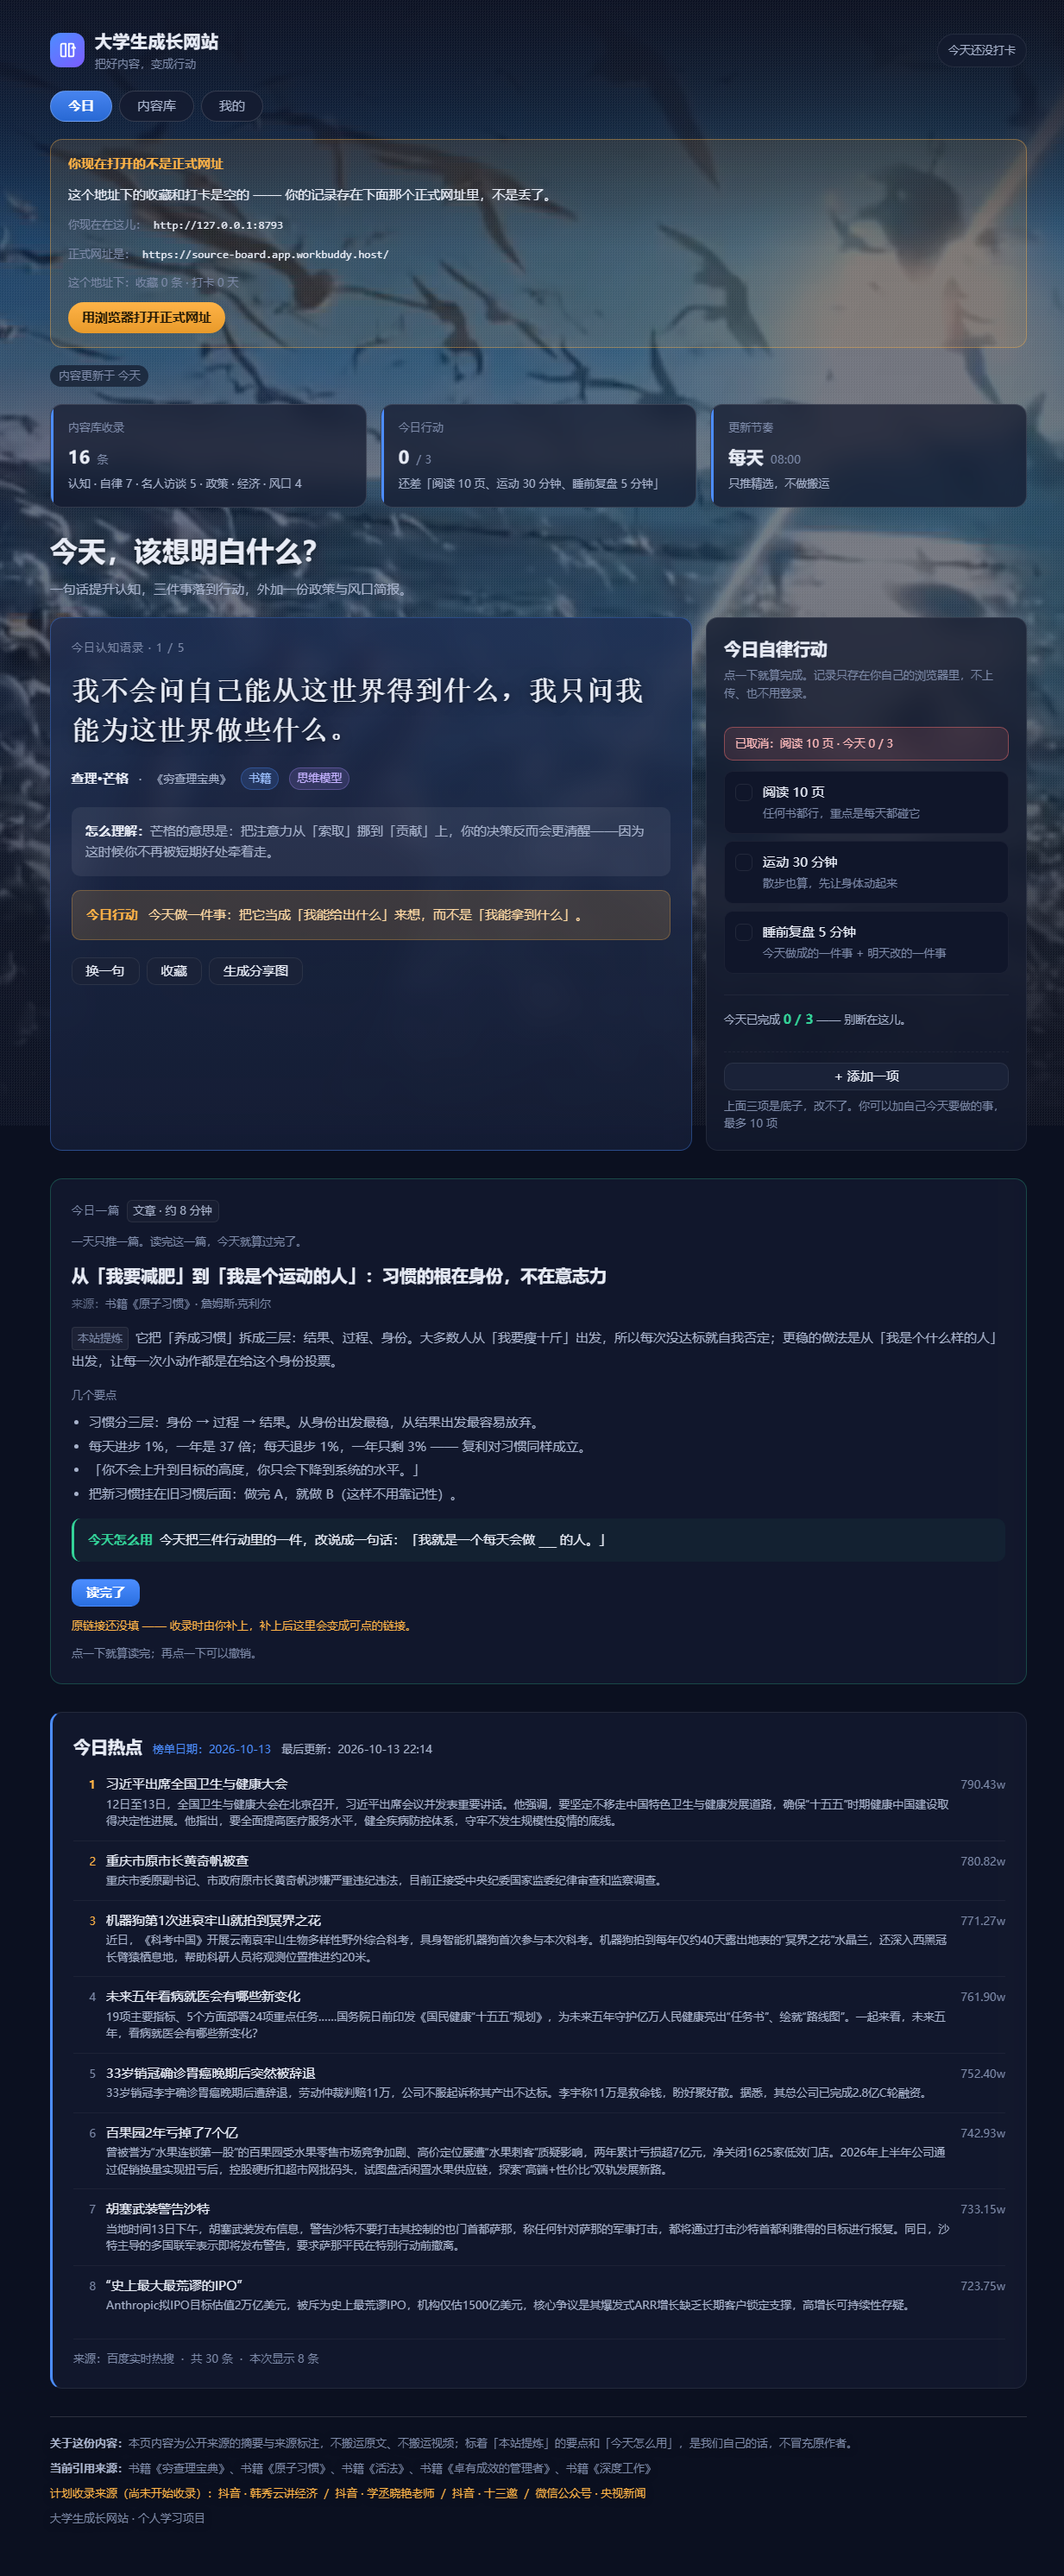
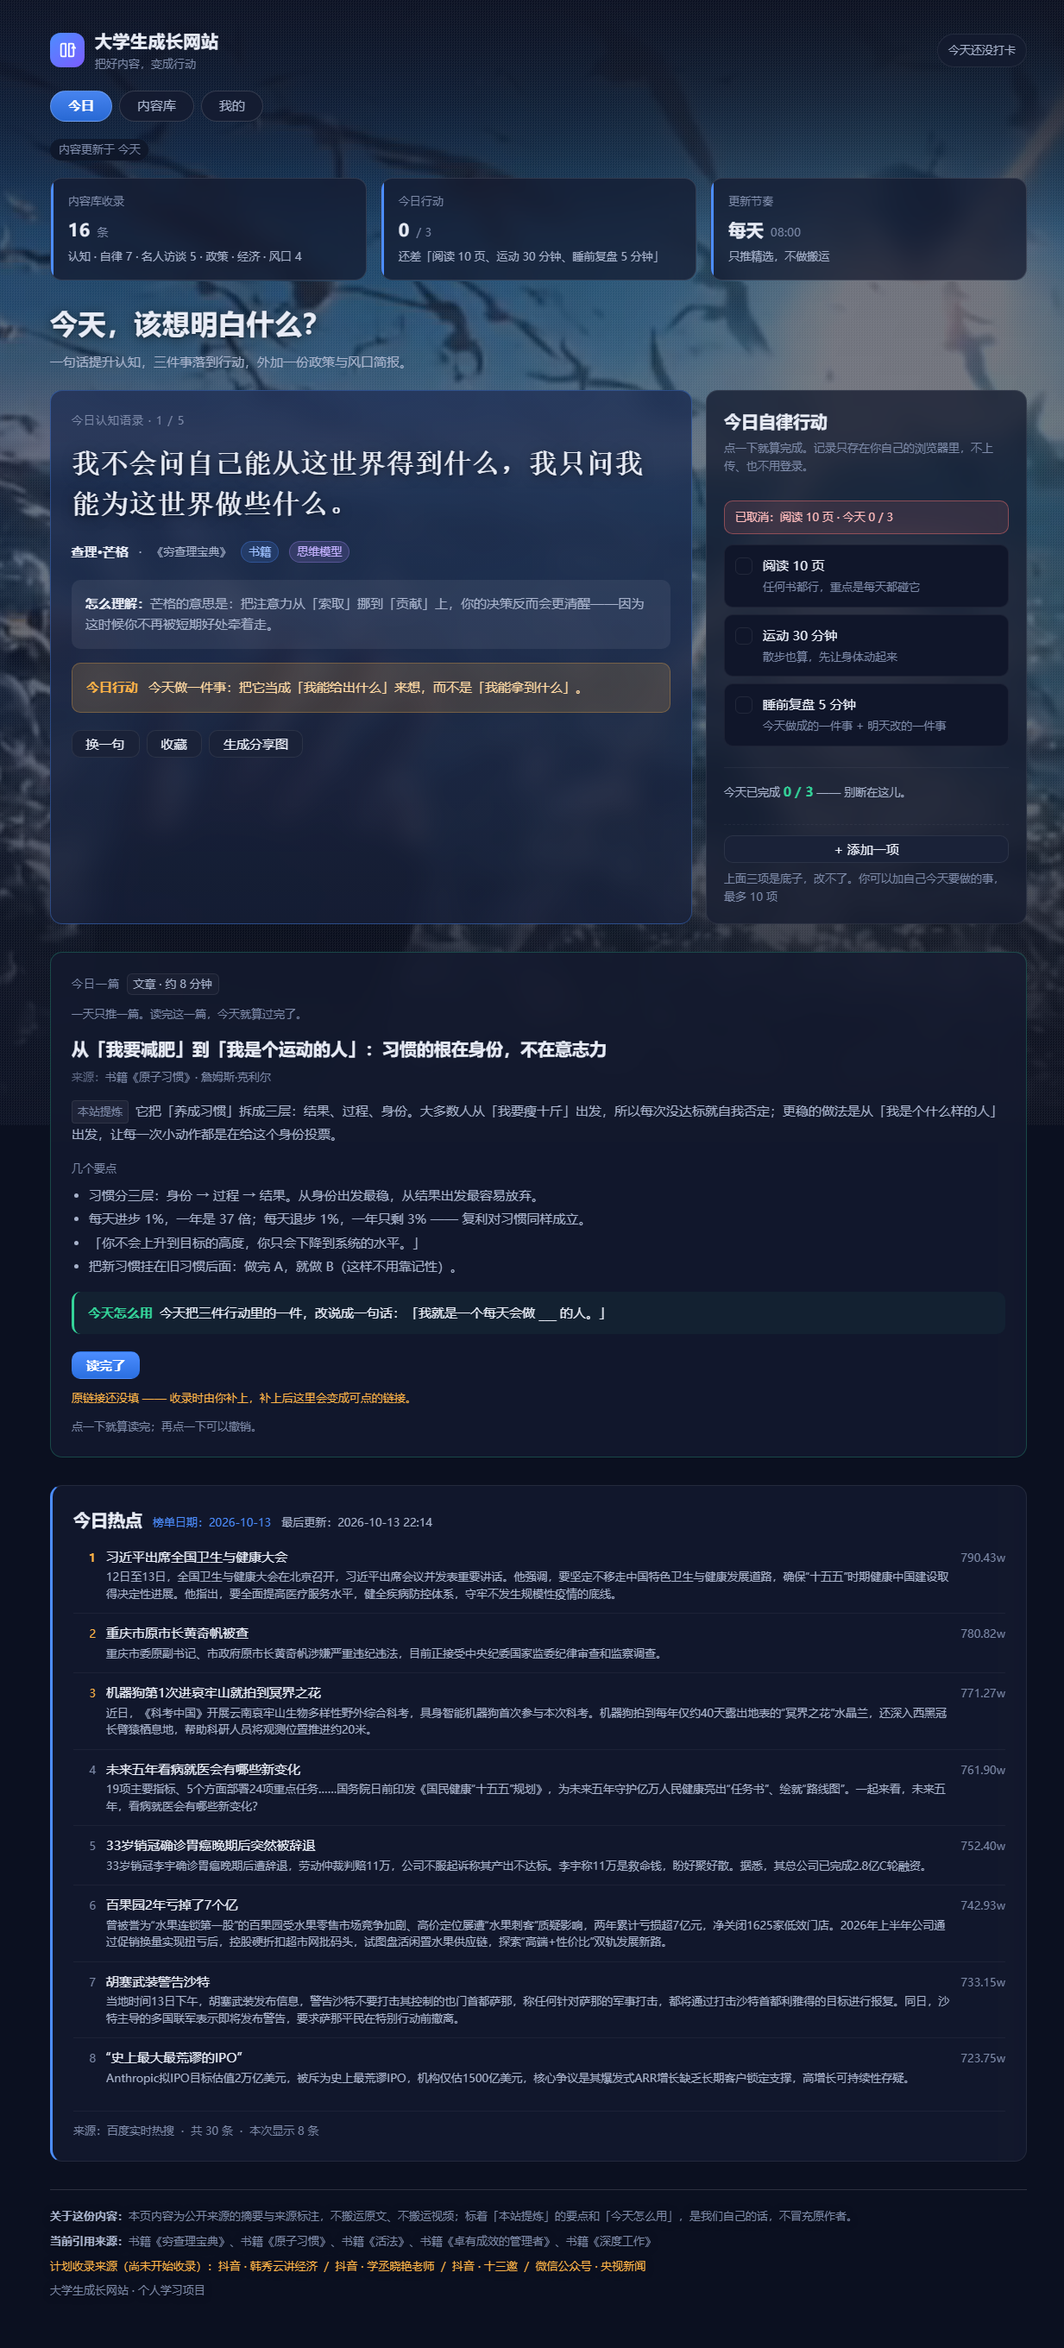
Day 27 补｜第四轮的完整记录：摘标注 / 热点复上 / 资源额度截图的真正位置 / 推送转交
改了什么：docs/CHANGELOG.md 加第九节（9.1 他的四句话 → 9.8 收尾，含「三次都发错、根子是我给的路径错了」的完整查证过程、为什么是「摘掉」而不是改字、★ 摘完从截图里看出的悬空分隔符、热点敢开的三个条件、AGENTS v1.5 推送规矩、六项验证与反向验证），并把第七节⑤「资源额度」改写成「三次都不对」的对照表；README.md 的 Day 27 条目补上第四轮这一段。

加了什么：无（本轮只动文档）。

diff --git a/docs/CHANGELOG.md b/docs/CHANGELOG.md
@@ -453,17 +453,42 @@ TypeError: Cannot read properties of undefined (reading 'replace')
   「没有符合条件的内容 / 换个词试试…」—— 跟「这一列还没收录」是两句不同的话；
 - `day27-6-首页热点已摘掉.png` —— 首页照常（语录 / 统计 / 行动卡），**「今日热点」整块不在了**。
 
-**⑤ 资源额度** —— `day27-2-资源额度.png` ⬜ **仍未拿到**。
-他先后发过两次都不对：第一次是「数据管理 → 应用」的**应用清单**（上面没有额度/到期/用量）；
-第二次发的更不是截图，而是**从那个页面导出的 `contents.csv`**（内容表的数据）。
-→ 正确做法：**停在同一页不要点导出**，把页面**上半部分的额度 / 到期日期 / 已用容量**
-一起框进一张截图。（正确点法见 `docs/day27-third-party-trial.md` 第 6.2 节。）
+**⑤ 资源额度** —— `day27-2-资源额度.png` ⬜ **仍未拿到**（原因已在当天深夜查清，见第九节）。
+
+他先后发过**三次都不对**：
+
+| 第几次 | 他发来的 | 为什么不算 |
+| --- | --- | --- |
+| 1 | 「数据管理 → 应用」的**应用清单** | 上面没有额度 / 到期 / 用量 |
+| 2 | 从那一页**导出的 `contents.csv`** | 更不是截图，是内容表的数据 |
+| 3 | 云服务「数据库 → 数据」的**表内容页** | 还是只有数据行，没有额度面板 |
+
+**★ 深夜查清：三次都不是他的问题 —— 是我给的路径本身错了。**
+本节原来写的「设置 → 数据管理 → 云服务页」，是**猜的**。
+当晚改用「直接挖客户端安装包里的界面文案」核对，才发现：
+
+- **云服务页根本没有额度面板** —— 它左栏只有四个模块
+  （数据库 / 文件存储 / 身份认证 / 数据统计），「额度」这个词只在
+  「额度即将耗尽 / 已暂停 / 已删除」这些**异常状态**下才冒出来；
+- **「额度 / 到期日期 / 用量」真正在的地方是账户菜单的「积分余额」页**
+  （`account.menu.credits`，里面有 `account.credits.total` / `.remaining`、
+  `account.credits.expiryDate`「到期日期」、`account.credits.validUntil`「有效期至」）。
+  → 他在云服务页里怎么找都找不到，**不是找的人的问题**。
+
+正确点法已写进 `docs/day27-third-party-trial.md` 第 6.2 节（那节已按查证结果重写）。
 
 **⑥ 第三轮（两处空头数字改成现算）的线上验证（新建，已亲眼看过）**
 
 - `day27-7-统计卡改为真实数据.png` —— 线上首页：顶栏 **「内容更新于 今天」**、
   第一张卡 **「内容库收录 16 条 · 认知 · 自律 7 · 名人访谈 5 · 政策 · 经济 · 风口 4」**。
   这三个数字与数据库实测（`cognition 7 / interview 5 / policy 4`）**逐项对得上**。
+
+**⑦ 第四轮（摘「示例内容」＋ 热点复上）的线上验证（新建，已亲眼看过）**
+
+- `day27-8-示例内容标注已摘掉.png` —— 线上首页：顶栏只剩 **「内容更新于 今天」**
+  （没有悬空的分隔符）、「今日一篇」卡头只剩 **「今日一篇 · 文章 · 约 8 分钟」**
+  （没有那个虚线小药丸）、**「今日热点」回来了**且标着
+  「榜单日期 2026-10-13 / 最后更新 2026-10-13 22:14」。
 
 ### 八、第三轮：修掉两处「编出来的数字」（2026-10-13 深夜）
 
@@ -524,6 +549,136 @@ TypeError: Cannot read properties of undefined (reading 'replace')
 - **发布上线**：sandboxId `7d028aab3c8c4397a6f384868b945c88`（与 Day 23 / 26 / 27 一致 → 覆盖同一个应用，链接不变）。
 - **推送成功**：`6a74f6d..472bbb5  main -> main`；远程真实 SHA `472bbb5d9ad4ae4e28ffda47bafe724a3e36284d`
   与本机 `HEAD` **完全一致**（按第 7 条第 5 点，只认远程 SHA）。
+
+### 九、第四轮：摘掉一个「已经变成假话」的标注 ＋ 找到那张截图的正确位置（2026-10-13 23:14）
+
+**9.1　Jimmy 这一轮给了我四句话**
+
+1. 「@图片 这个是资源额度截图吧」；
+2. 「推送这条规矩改成**你直接推，推不动我再上**」；
+3. 「首页还挂着「示例内容（版面确认用，非真实收录）」，**这个也改**」；
+4. 「「今日热点」**每天八点自动跑一次**」。
+
+**9.2　那张「资源额度截图」：第三次不对 —— 但这次我把根子挖出来了**
+
+他发来的第三张是**云服务 →「数据库 → 数据」的逐行看表页**（`contents` 表的 id / source_id /
+kind / title）。跟额度、到期、用量**一点关系都没有**。
+
+前两次分别是「应用清单」和「导出的 `contents.csv`」。三次都空手，这已经不该继续怪他 ——
+**回头查自己给的路径**，发现第 6.2 节那条「设置 → 数据管理 → 云服务页」**是当初猜的，从来没验过**。
+
+于是换了个办法：**不猜了，直接挖客户端安装包**。
+（这不是新招 —— 项目里那份 `workbuddy-ui-location` 技能就是干这个的，这次第一次真正派上用场。）
+
+| 挖到的东西 | 位置 |
+| --- | --- |
+| 云服务的界面文案 | `app.asar.unpacked/resources/extensions/workbuddy-baas-v2/ui/assets/__federation_expose_Main-*.js` |
+| 账户菜单 / 积分文案 | `app.asar.unpacked/renderer/assets/zh-cn-*.js`（中文是 `\uXXXX` 转义，要解一层） |
+
+**结论（都是原文，不是推断）**：
+
+- 云服务页左栏只有四个模块：`module.database` 数据库 / `module.storage` 文件存储 /
+  `module.auth` 身份认证 / `module.analytics` 数据统计 —— **没有额度面板**。
+  「额度」字样只出现在异常状态里（`state.expiring`「额度即将耗尽」、
+  `state.exhausted`「云服务已暂停」、`state.destroyed`「资源已删除」）。
+- 而**额度 / 到期日期 / 用量三样，都在账户菜单的「积分余额」页**：
+  `account.menu.credits`＝积分余额、`account.credits.total` / `.remaining`＝总量 / 剩余、
+  `account.credits.expiryDate`＝**到期日期**、`account.credits.validUntil`＝**有效期至**、
+  `account.menu.usage`＝用量。
+
+→ **他在云服务页里怎么找都找不到，不是他的问题，是路径错了。**
+已把 `docs/day27-third-party-trial.md` 第 6.2 节整段重写（并注明「原版是猜的」）。
+
+**9.3　首页那个「示例内容」标注：为什么是「摘掉」而不是「改一个字」**
+
+`data.js` 的 `meta.isSample` 由 `true` 改成 `false`。
+判断依据：内容库里已经是 **16 条真实条目 ＋ 8 篇今日一篇**，出处都能核对
+（书 / 公开演讲 / 公开政策文件），其中 3 条还是按合规做法收的（只做摘要 + 链接 + 来源标注）。
+→ 那句「非真实收录」**已经变成假话**。按本项目一贯的规矩（Day 10 / Day 27 第三轮都栽在这上面）：
+**假标注比没有标注更糟**，所以是摘掉，不是换个皮继续挂。
+
+顺带一起处理的：
+
+- **「今日一篇」卡上那格同名的虚线小药丸也去掉**（它是同一个说法，
+  只摘顶栏、留着卡片上那格，就是「同一件事两处说法不一致」）；
+  卡上本来就有「来源：…」和摘要前的「本站提炼」，信息没少。
+- `style.css` 里那条 `.dr-sample` 成了死样式，**删掉**（留着会让人以为页面还有个示例标记）；
+- 底部 `footer.note` 从「本页当前为示例内容…」改成
+  「本页内容为公开来源的摘要与来源标注…标着「本站提炼」的要点和「今天怎么用」，是我们自己的话」。
+
+**9.4　★ 摘完之后，截图里看出一个新毛病（这是今天最该记的一条）**
+
+摘掉标注后再跑一遍浏览器验证，页面文字层面全对（`body.innerText` 里已经没有「示例内容」）。
+**但把截图打开一看：顶栏剩了个孤零零的「·」** ——
+
+```
+内容更新于 今天 ·
+```
+
+原因：`renderMeta()` 里那个分隔符是**无条件**挂上去的，后面原本跟着「示例内容」那一格。
+格子一摘，分隔符就成了没主儿的尾巴。
+
+改法：先收集这次要显示哪几条，**有一条才补分隔符**。
+顺手把这个分支改成数组驱动 —— 以后再关掉任何一条，都不会再留尾巴。
+
+> **这条为什么值得记**：文字层面的断言（`indexOf('示例内容') === -1`）**全都是通过的**。
+> 问题只在**版面上**。AGENTS 第 3 条那句「截图必须亲眼看」，防的正是这个。
+
+**9.5　「今日热点」重新上首页**
+
+`config.js` 的 `hot.visible` 由 `false` 改回 `true`。
+
+凭什么敢开（这是当时关掉它时留下的条件）：
+
+| 当时的顾虑 | 现在的状态 |
+| --- | --- |
+| 最新快照停在一周前（10-06），挂着旧日期比没有更伤 | **已补到当天**：10-13 的 30 条，22:14 写进云端 |
+| 靠「每天新鲜」才成立，但没人天天手动抓 | **每天 08:00 有定时任务**（`tools/hot-topics/update-daily.mjs`），跑完自己写库并回读验证 |
+| 万一哪天真没跑成，看不出来 | 页面上本来就有**两个日期**：「榜单日期」（数据属于哪天）＋「最后更新」（什么时候抓进来的）—— 一起停住，一眼能看出来 |
+
+实测：线上「今日热点」显示 **榜单日期 2026-10-13 / 最后更新 2026-10-13 22:14**，8 条。
+
+**9.6　`AGENTS.md` 第 7 条：推送规矩改了（他明确批准）**
+
+旧版第 3 点写的是「**推送交给我在本机终端跑（你在沙箱里推不了，不用试）**」。
+但**实测一次就推成功**了 —— 那句「不用试」与事实相反。
+
+改成：**推送由助手直接推**；只有「直连和中转口**都不通**」或「要动他本机才有的东西」
+这两种情况才转给他。第 6 点末尾那句「推送仍由他在本机终端跑」同步改掉
+（否则同一份文件里两处自相矛盾）；版本日志加 v1.5 一行，写明是他哪句原话批准的。
+
+**★ 这一条当天就用上了**：23:1x 推送时直连报 `Empty reply from server`、
+本机中转口报 `CONNECT tunnel failed, response 502`，`curl https://github.com` 也是 502，
+而我们的线上站点 `curl` 是 **200** —— 说明是**出口代理到 GitHub 的通道问题**，不是断网。
+正好落进新规矩里「两种都失败 → 转给他」那一格，**没有反复重试**。
+
+**9.7　怎么证明能用（AGENTS 第 3 条：真开浏览器）**
+
+新建 `verify-day27c.mjs`（临时脚本，放在当天工作区的 `.tmp/`），无头 Edge ＋ CDP 跑一遍，查六件事：
+
+| 查什么 | 本地结果 | 线上结果 |
+| --- | --- | --- |
+| ① 顶栏文字 | `"内容更新于 今天"` —— 无「示例」、无悬空「·」 | 同 |
+| ②「今日一篇」卡头 | `今日一篇 / 文章 · 约 8 分钟`；`.dr-sample` 计数 **0** | 同 |
+| ③ 热点块 | 在，**榜单日期 2026-10-13**，8 条 | 同 |
+| ④ 打卡还能点吗 | 点一下 → 「已连续自律 1 天」；再点 → 「今天还没打卡」（**干净还原**） | 同 |
+| ⑤ 底部那句话 | 已是新说法 | 同 |
+| ⑥ 页面报错 | **0 条** | 0 条 |
+
+另外**做了个反向验证**：把 `isSample` 临时改回 `true` 跑一遍，
+顶栏恢复成 `"内容更新于 今天\n·\n示例内容（版面确认用，非真实收录）"` ——
+证明这次重构**没把原来那条路改坏**（改法参考 Day 27 第二轮验「读不到」时的同一手法）。
+验完立刻改回 `false`。
+
+发布前检查：**发布前 11/12**（C2 报红＝线上还是旧版，正常）→ 发布 → **12/12 全绿**
+（线上与本地 **12/12 个文件 md5 完全一致**）。
+
+**9.8　收尾**
+
+- 本地提交 `27f0456`（标题 `Day 27｜…`，正文两行「改了什么 / 加了什么」，共 9 个文件）。
+- **发布上线**：sandboxId `7d028aab3c8c4397a6f384868b945c88`（与 Day 23 / 26 / 27 一致 → 覆盖同一个应用，链接不变）。
+- **推送：本机两条路都不通**（见 9.6），按新规矩**转给 Jimmy 在本机跑**。
+  → ⬜ 待他跑完后用远程 SHA 核对。
 
 
 ---

diff --git a/README.md b/README.md
@@ -160,7 +160,28 @@
   故意造「读不到」时，统计卡 `—` 和顶栏「暂时读不到」**说法一致**。
   ⚠ 详情和两个小坑（`libCache` 空数组是真值不能当旗子；判断顺序写反导致两处说法打架）见
   [`docs/CHANGELOG.md`](docs/CHANGELOG.md) 第八节。截图 `day27-7-统计卡改为真实数据.png`。
-  ⚠ 资源额度页截图**仍未拿到**（第二次他发的也不是截图，是从那页导出的 `contents.csv`）。
+  **当晚第四轮：摘掉一个已经变成假话的标注 ＋ 让热点重新上线 ＋ 找到那张截图的正确位置。**
+  · 首页顶栏那句 **「示例内容（版面确认用，非真实收录）」** 摘掉了（`data.js` 的 `meta.isSample: false`）——
+    内容库已经是 **16 条真实条目 ＋ 8 篇今日一篇**，出处都能核对，**那句话已经变成假话**；
+    按本项目一贯的规矩，**假标注比没有标注更糟**。同一个说法的「今日一篇」卡上小标一并去掉，
+    死样式 `.dr-sample` 删除，底部 `footer.note` 换成准确说法（公开来源摘要 ＋ 「本站提炼」）。
+  · ⚠ 摘完之后**截图里看出一个新毛病**：顶栏剩了个**孤零零的「·」**（分隔符原来是无条件挂上去的）。
+    文字层面断言**全部通过**，只有版面能看出来 —— 正是 AGENTS 第 3 条「截图必须亲眼看」防的那种。
+    已改成「**有一条才补分隔符**」，以后再关任何一条都不会留尾巴。
+  · **「今日热点」重新上首页**（`config.hot.visible: true`）：数据已补到当天、每天 08:00 有定时任务；
+    页面上「**榜单日期** / **最后更新**」两个日期一起停住，就能看出哪天没跑成。
+  · `AGENTS.md` **v1.5**：第 7 条推送规矩改成「**助手直接推，推不动再交给 Jimmy 在本机跑**」
+    （旧版写「你在沙箱里推不了，不用试」，实测已不成立）。
+  · **★ 资源额度那张截图：他发了三次都不对，根子是我给的路径错了。** 当晚改用
+    **直接挖客户端安装包**核对，确认**云服务页根本没有额度面板**（只有数据库 / 文件存储 /
+    身份认证 / 数据统计四个模块），「额度 / 到期日期 / 用量」真正在
+    **账户菜单的「积分余额」页**（`account.credits.expiryDate`＝到期日期、`validUntil`＝有效期至）。
+    [`docs/day27-third-party-trial.md`](docs/day27-third-party-trial.md) 第 6.2 节已整段重写。
+  · 提交 `27f0456` → 发布上线（链接不变）→ 发布前检查 **12/12 全绿**；
+    截图 `day27-8-示例内容标注已摘掉.png`（已亲眼看过）。
+  ⚠ **推送这次没做成**：直连报 `Empty reply from server`、本机中转口报 `502`，
+    而我们的线上站点 `curl` 是 **200** —— 是**出口代理到 GitHub 的通道**问题，不是断网。
+    按新规矩**转给 Jimmy 在本机跑**（不反复重试）。
 - **Day 26（2026-10-12）｜发布 v1.0 ＋ 一次真实的回滚演练：2 分 17 秒退回去、再恢复。**
   今天两件主事：**① 发布 v1.0** —— 给当前版本打上**附注标签 `v1.0`**（对应 `698450d`），
   整个项目从今天起有了「正式版」这个锚点（之前只有 `day17-stable`）；
